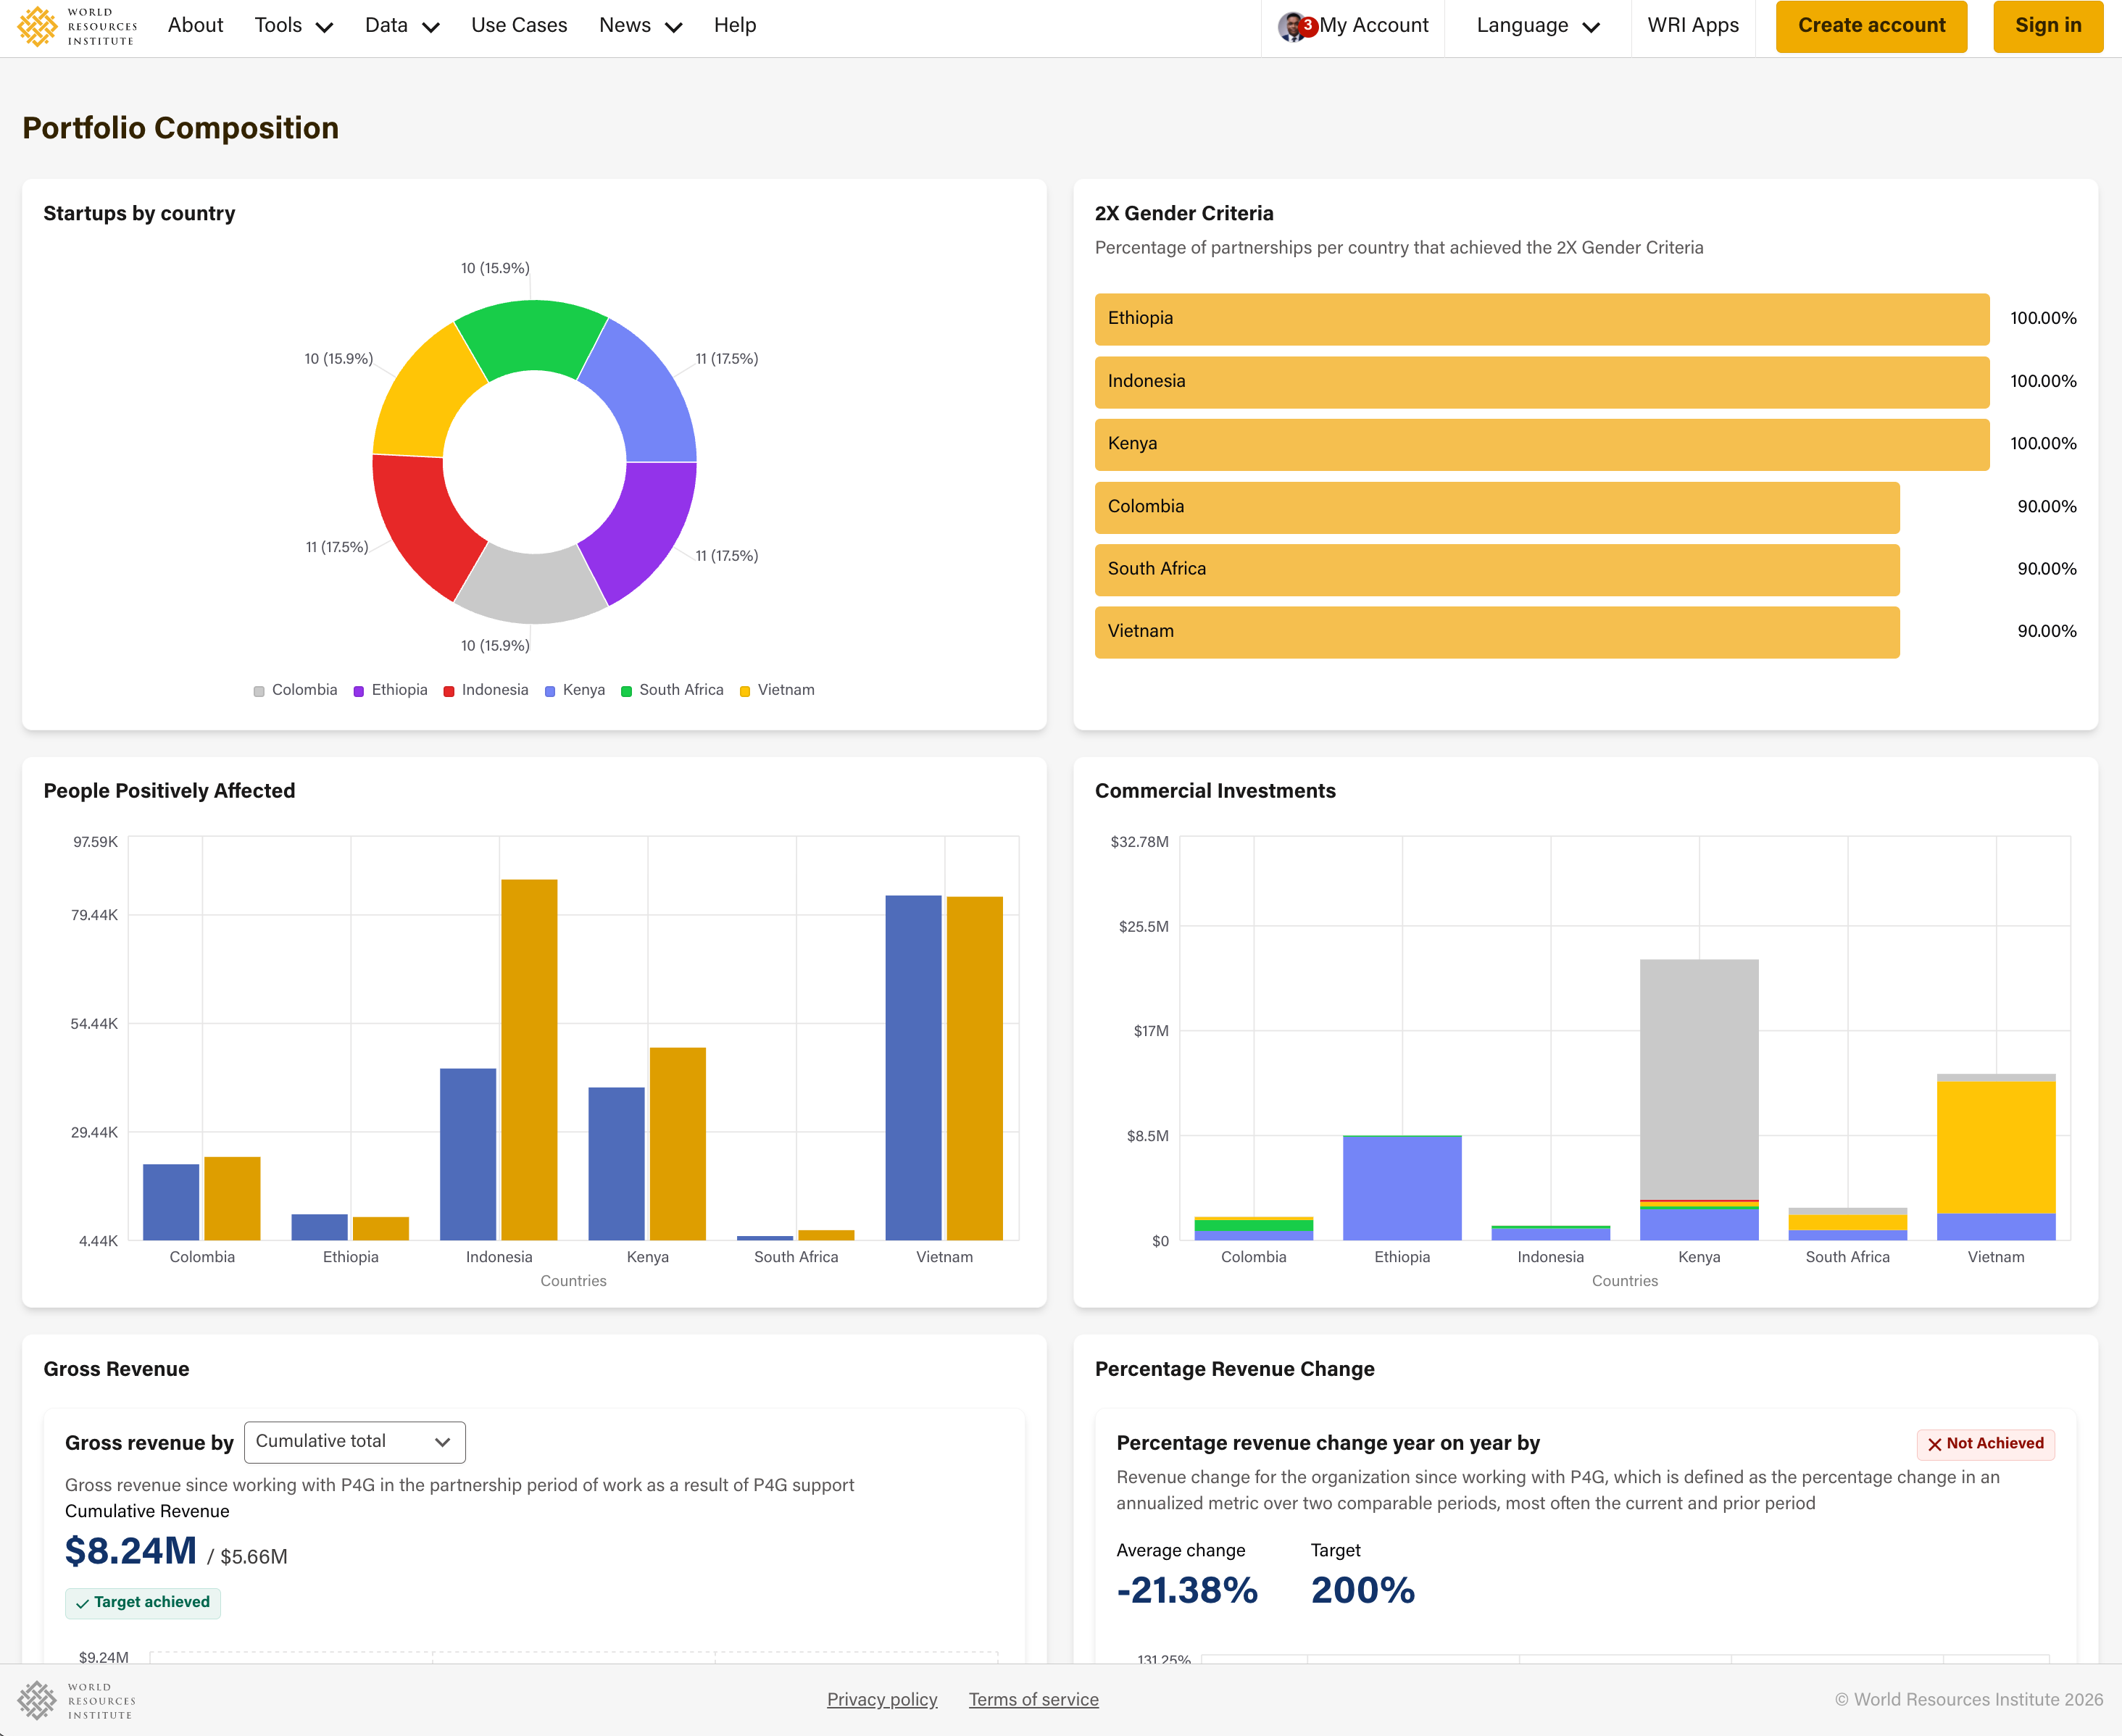
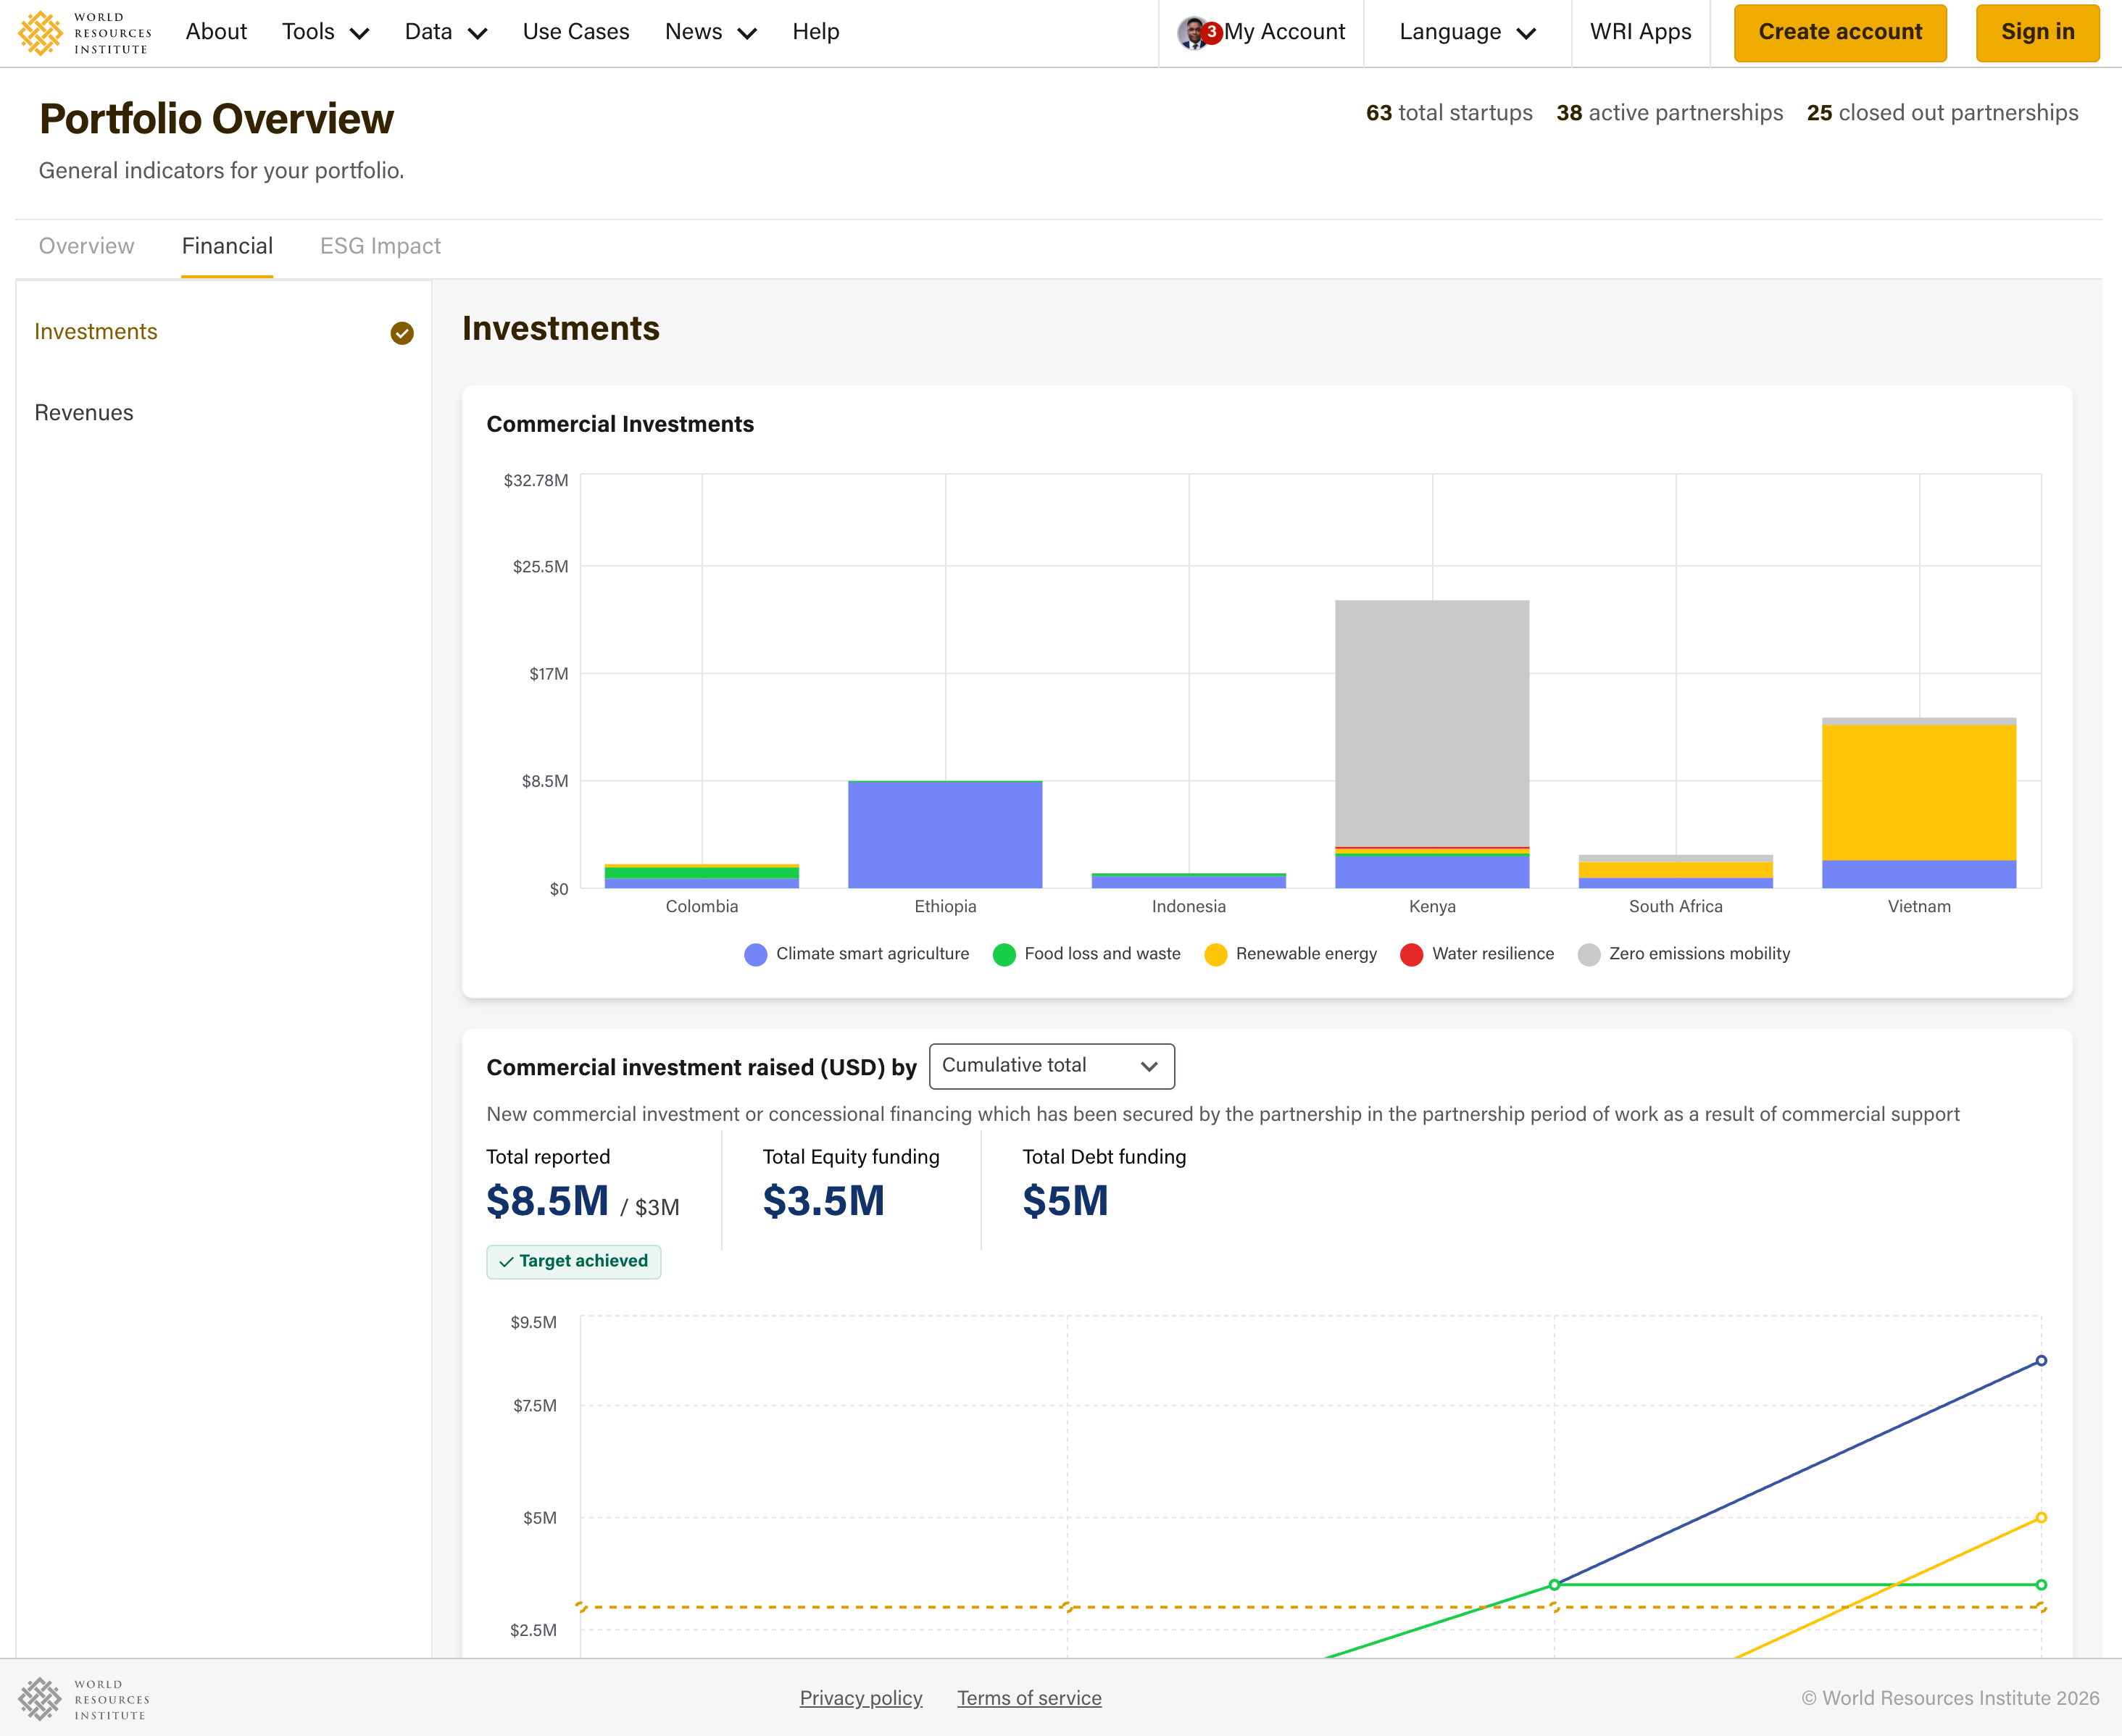
build fix

diff --git a/src/components/Charts/Tabs/TabsHandler.tsx b/src/components/Charts/Tabs/TabsHandler.tsx
@@ -7,7 +7,7 @@ import { cn } from '@/utils/styles'
 import { Select } from '@worldresources/wri-design-systems'
 import { CheckCircleIcon } from '@/components/icons/CheckCircle'
 
-const TabsHandler = ({ section }: { section: string }) => {
+const TabsHandler = ({ section = 'overview' }: { section: string }) => {
   const [activeNavPanelItem, setActiveNavPanelItem] = useState('')
   const { isSmallTablet, isMobile } = useResponsiveFlags()
 